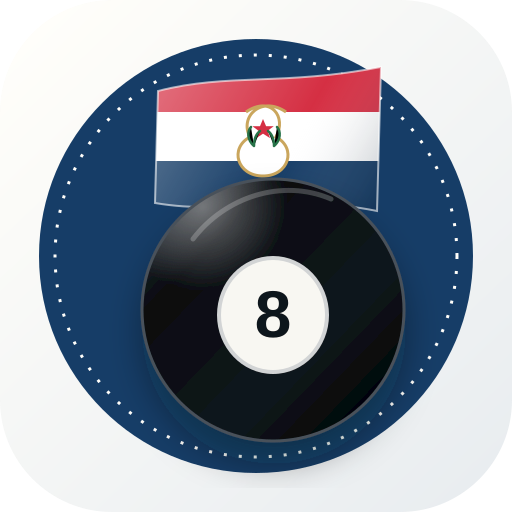
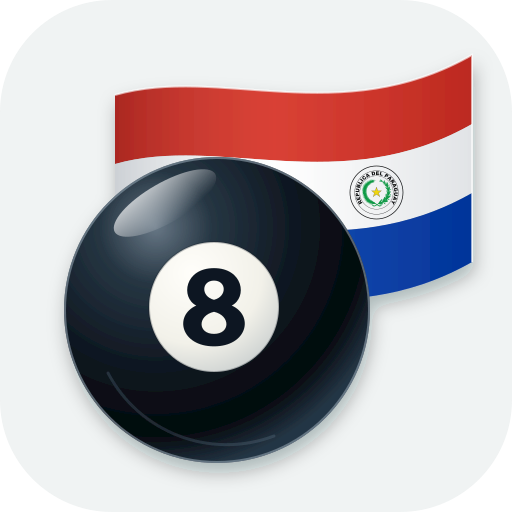
Rediseña la marca y el telón paraguayo del encabezado

diff --git a/src/styles.css b/src/styles.css
@@ -55,7 +55,7 @@ h2 { font-size: 44px; line-height: 1.05; letter-spacing: -.6px; }
 h3 { font-size: 20px; font-weight: 700; }
 svg { flex-shrink: 0; }
 .app-shell { position: relative; isolation: isolate; min-height: 100vh; overflow-x: clip; }
-.floral-parallax { --page-parallax-y: 0px; position: absolute; z-index: -1; inset: 0; overflow: hidden; pointer-events: none; background: radial-gradient(ellipse at 0 18%, #163d6709, transparent 46%), radial-gradient(ellipse at 100% 65%, #ce354309, transparent 42%); }
+.floral-parallax { --page-parallax-y: 0px; position: absolute; z-index: -2; inset: 0; overflow: hidden; pointer-events: none; background: radial-gradient(ellipse at 0 18%, #163d6709, transparent 46%), radial-gradient(ellipse at 100% 65%, #ce354309, transparent 42%); }
 .page-flower { position: absolute; overflow: visible; transform: translate3d(0, var(--page-parallax-y), 0); }
 /* Ñandutí: todo es hilo recto. La urdimbre es fina; los rayos principales, los abanicos y el borde pesan un poco más. */
 .nanduti-web { stroke: var(--art-blue); stroke-width: .7; stroke-linecap: round; }
@@ -77,7 +77,7 @@ svg { flex-shrink: 0; }
 .national-stripe { height: 6px; background: linear-gradient(90deg, var(--red) 0 33.33%, var(--on-fill) 33.33% 66.66%, var(--blue) 66.66%); }
 .club-header { max-width: 1360px; margin: auto; min-height: 110px; display: flex; align-items: center; justify-content: space-between; gap: 36px; padding: 20px 40px; border-bottom: 1px solid var(--line); }
 .brand { display: flex; gap: 12px; align-items: center; text-decoration: none; flex-shrink: 0; }
-.brand img { width: 49px; height: 49px; }
+.brand img { width: 70px; height: 70px; object-fit: contain; }
 .brand-wordmark { display: flex; flex-direction: column; align-items: flex-start; gap: 5px; }
 .brand-name { font-family: var(--display); font-size: 27px; line-height: .85; letter-spacing: -.4px; white-space: nowrap; }
 .brand-name span { color: var(--red-ink); }
@@ -88,9 +88,13 @@ svg { flex-shrink: 0; }
 .nav-item.active { background: var(--blue); color: var(--on-fill); }
 .header-country { display: flex; align-items: center; gap: 12px; font-size: 10px; line-height: 1.5; }
 .header-country strong { display: block; font-size: 11px; }
-.flag { display: block; width: 66px; height: 46px; flex-shrink: 0; object-fit: contain; transform-origin: left center; filter: drop-shadow(0 5px 5px #10192335); animation: flag-billow 2.6s ease-in-out infinite; }
-@keyframes flag-billow { 0%, 100% { transform: perspective(180px) rotateY(-9deg) rotateZ(-2deg); } 50% { transform: perspective(180px) rotateY(8deg) rotateZ(2deg); } }
-@media (prefers-reduced-motion: reduce) { .flag { animation: none; } }
+/* Telón patrio: comparte la escala y la transparencia del ñandutí de fondo. */
+.stadium-banner { position: absolute; z-index: -1; top: -100px; right: max(-115px, calc((100vw - 1440px) / 2 - 80px)); width: clamp(620px, 65vw, 970px); height: 510px; opacity: .23; pointer-events: none; mask-image: linear-gradient(90deg, transparent, #000 28%), linear-gradient(#000 55%, transparent); mask-composite: intersect; transform-origin: top right; animation: stadium-drift 14s ease-in-out infinite; }
+.stadium-banner > img { display: block; width: 100%; height: 100%; object-fit: fill; }
+.stadium-banner .stadium-lace { position: absolute; top: -20%; right: -8%; width: 72%; height: auto; opacity: .23; filter: brightness(0) invert(1); }
+[data-theme='dark'] .stadium-banner { opacity: .17; }
+@keyframes stadium-drift { 0%, 100% { transform: translate3d(0, 0, 0); } 50% { transform: translate3d(-6px, 5px, 0) rotate(-.5deg); } }
+@media (prefers-reduced-motion: reduce) { .stadium-banner { animation: none; } }
 .workspace { max-width: 1360px; margin: auto; }
 main { padding: 0 40px; }
 main:focus { outline: none; }
@@ -281,7 +285,7 @@ tbody tr:hover { background: var(--row-hover); }
 .club-footer { display: grid; grid-template-columns: 1fr 1.35fr 1fr; align-items: center; gap: 30px; border-top: 1px solid var(--field-line); margin-top: 60px; padding: 31px 0; }
 .footer-brand { display: flex; gap: 12px; align-items: center; font-family: var(--display); font-size: 22px; line-height: 1.1; }
 .footer-brand strong { font-weight: 400; color: var(--red-ink); }
-.footer-brand img { width: 42px; height: 42px; }
+.footer-brand img { width: 56px; height: 56px; object-fit: contain; }
 .footer-cities > span { font-family: var(--mono); color: var(--muted); font-size: 8px; letter-spacing: .5px; }
 .footer-cities p { font-size: 11px; line-height: 1.7; margin-top: 6px; color: var(--muted); }
 .footer-local { display: flex; align-items: flex-end; flex-direction: column; gap: 9px; font-size: 9px; color: var(--muted); }
@@ -465,7 +469,7 @@ dialog::backdrop { background: #102e5070; backdrop-filter: blur(5px); }
 [data-theme='dark'] .leader-row .score-track i { background: var(--red-ink); }
 [data-theme='dark'] .scoreboard, [data-theme='dark'] .profile-stats, [data-theme='dark'] .podium-1 a { background: linear-gradient(160deg, #1d4d80, #143a63); box-shadow: inset 0 1px #ffffff14, 0 14px 40px #0008; }
 [data-theme='dark'] .tournament-card, [data-theme='dark'] .table-wrap, [data-theme='dark'] .panel, [data-theme='dark'] .player-card, [data-theme='dark'] .podium-step a { box-shadow: 0 10px 30px #0005; }
-[data-theme='dark'] .brand img, [data-theme='dark'] .footer-brand img { border-radius: 24%; box-shadow: 0 0 0 1px #ffffff1f; }
+[data-theme='dark'] .brand img, [data-theme='dark'] .footer-brand img { filter: drop-shadow(0 2px 3px #ffffff24); }
 [data-theme='dark'] dialog { box-shadow: 0 25px 90px #000a; }
 [data-theme='dark'] dialog::backdrop { background: #040a12b8; }
 [data-theme='dark'] .toast { background: #1d4d80; box-shadow: 0 7px 30px #0009; }
@@ -503,14 +507,12 @@ dialog::backdrop { background: #102e5070; backdrop-filter: blur(5px); }
   .nanduti-backdrop { inset: -8%; width: 116%; height: 116%; }
   .national-stripe { height: 5px; }
   .club-header { padding: 20px 20px 0; min-height: auto; flex-wrap: wrap; gap: 20px; }
-  .brand img { width: 41px; height: 41px; }
+  .brand img { width: 54px; height: 54px; }
   .brand-name { font-size: 25px; }
   .brand-location { font-size: 8px; letter-spacing: 2.3px; }
   .header-end { margin-left: auto; gap: 12px; }
-  .header-country { display: flex; font-size: 10px; gap: 7px; }
   .theme-toggle { width: 36px; height: 36px; }
-  .header-country strong { font-size: 11px; }
-  .flag { width: 46px; height: 32px; }
+  .stadium-banner { top: -10px; right: -110px; width: 600px; height: 440px; opacity: .16; }
   .club-header nav { order: 3; display: grid; grid-template-columns: .95fr 1.12fr .95fr 1.45fr; width: 100%; gap: 3px; }
   .nav-item { border-radius: 4px 4px 0 0; min-width: 0; min-height: 44px; justify-content: center; padding: 11px 5px; gap: 5px; font-size: 11px; }
   .nav-item svg { width: 15px; }
@@ -626,8 +628,7 @@ dialog::backdrop { background: #102e5070; backdrop-filter: blur(5px); }
 @media (max-width: 390px) {
   main { padding: 0 15px; }
   .club-header { padding-left: 15px; padding-right: 15px; }
-  .header-country > span:last-child { display: none; }
-  .flag { width: 38px; height: 27px; }
+  .stadium-banner { right: -125px; }
   .nav-item { padding: 11px 6px; gap: 4px; font-size: 11px; }
   .hero h1 { font-size: 59px; }
   .hero { grid-template-columns: minmax(0, 1fr) 115px; }

diff --git a/src/App.tsx b/src/App.tsx
@@ -2,6 +2,7 @@ import { useEffect, useMemo, useState } from 'react';
 import { ArrowUpRight, CalendarDays, Check, Download, Flag, Lock, Moon, Settings2, Smartphone, Sun, Trophy, Users, WifiOff, X } from 'lucide-react';
 import { useRegisterSW } from 'virtual:pwa-register/react';
 import FloralParallax from './FloralParallax';
+import NandutiWeb from './NandutiWeb';
 import { PasswordForm } from './components/AccountPanel';
 import InstallGuide from './components/InstallGuide';
 import LoginForm from './components/LoginForm';
@@ -114,11 +115,15 @@ export default function App() {
   return (
     <div className="app-shell">
       <FloralParallax />
+      <div className="stadium-banner" aria-hidden="true">
+        <img src="/flag.svg" alt="" />
+        <NandutiWeb className="stadium-lace" spokes={48} sector={4} lattice={[17, 11, 5]} />
+      </div>
       <a className="skip-link" href="#main-content" onClick={e => { e.preventDefault(); document.getElementById('main-content')?.focus(); }}>Ir al contenido</a>
       <div className="national-stripe" aria-hidden="true" />
       <header className="club-header">
         <a className="brand" href={pageHref('Ranking')} aria-label="BillarPool Paraguay, inicio">
-          <img src="/icon.svg" alt="" /><span className="brand-wordmark"><span className="brand-name">BILLAR<span>POOL</span></span><span className="brand-location">PARAGUAY</span></span>
+          <img src="/brand-mark.svg" alt="" /><span className="brand-wordmark"><span className="brand-name">BILLAR<span>POOL</span></span><span className="brand-location">PARAGUAY</span></span>
         </a>
         <nav aria-label="Navegación principal" className={canEdit ? undefined : 'nav-public'}>
           {NAV.filter(item => item.name !== 'Configuración' || canEdit).map(({ name, icon: Icon }) => (
@@ -126,7 +131,7 @@ export default function App() {
           ))}
         </nav>
         <div className="header-end">
-          <div className="header-country"><img className="flag" src="/flag.svg" alt="Bandera del Paraguay" /><span>Hecho de partidas.<strong>Jugado en Paraguay.</strong></span></div>
+          <div className="header-country"><span>Hecho de partidas.<strong>Jugado en Paraguay.</strong></span></div>
           <button className="theme-toggle" onClick={toggleTheme} aria-label={theme === 'dark' ? 'Cambiar a tema claro' : 'Cambiar a tema oscuro'} aria-pressed={theme === 'dark'}>
             {theme === 'dark' ? <Sun size={18} /> : <Moon size={18} />}
           </button>
@@ -154,7 +159,7 @@ export default function App() {
           </>}
 
           <footer className="club-footer">
-            <div className="footer-brand"><img src="/icon.svg" alt="" /><span>De acá.<br /><strong>De nuestra mesa.</strong></span></div>
+            <div className="footer-brand"><img src="/brand-mark.svg" alt="" /><span>De acá.<br /><strong>De nuestra mesa.</strong></span></div>
             <div className="footer-cities">
               {cities.length ? <><span>EL POOL NOS ENCUENTRA EN</span><p>{cities.slice(0, 6).join(' · ')}{cities.length > 6 ? ` y ${cities.length - 6} ciudades más` : ''}</p></> : <p>El próximo encuentro empieza con vos.</p>}
             </div>
